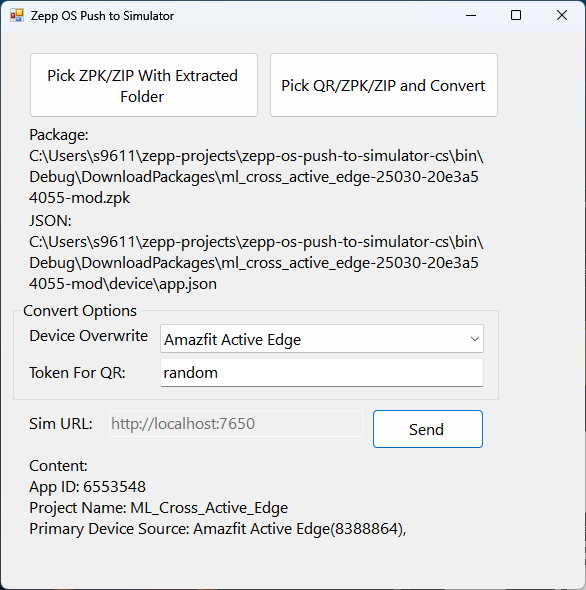
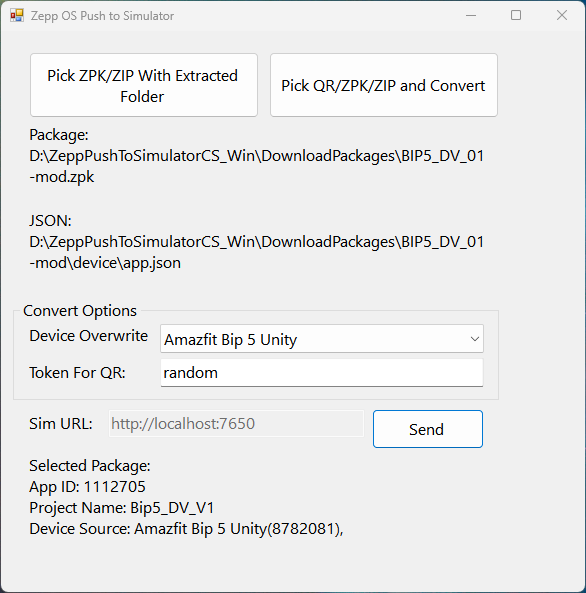
Device table fetch method improved

diff --git a/Form1.cs b/Form1.cs
@@ -10,10 +10,8 @@ using System.Linq;
 using System.Net.Http;
 using System.Text.Json;
 using System.Text.Json.Nodes;
-using System.Text.RegularExpressions;
 using System.Threading.Tasks;
 using System.Windows.Forms;
-using System.Xml.Linq;
 
 namespace zepp_os_push_to_simulator_cs
 {
@@ -67,31 +65,40 @@ namespace zepp_os_push_to_simulator_cs
         /// </summary>
         /// <param name="url">Download URL</param>
         /// <param name="destinationPath">Save path</param>
-        private async Task<string> DownloadFileAsync(string url, string destinationFolder)
+        /// <param name="fallbackFilename">Filename to use if can't determine from headers or URL</param>
+        /// <param name="withHeader">Whether to include headers in the request</param>
+        private async Task<string> DownloadFileAsync(string url, string destinationFolder, string fallbackFilename, bool withHeader)
         {
             string token = "";
 
-            // Read token from the UI, if it's "random" then generate a random token and update the UI with it
-            this.Invoke((MethodInvoker)delegate {
-                if (tokenTextBox.Text == "random")
+            if (withHeader)
+            {
+                // Read token from the UI, if it's "random" then generate a random token and update the UI with it
+                this.Invoke((MethodInvoker)delegate
                 {
-                    token = GenerateRandomToken(255);
-                    tokenTextBox.Text = token;
-                }
-                else
-                {
-                    token = tokenTextBox.Text.Trim();
-                }
-            });
+                    if (tokenTextBox.Text == "random")
+                    {
+                        token = GenerateRandomToken(255);
+                        tokenTextBox.Text = token;
+                    }
+                    else
+                    {
+                        token = tokenTextBox.Text.Trim();
+                    }
+                });
+            }
 
             try
             {
                 var request = new HttpRequestMessage(HttpMethod.Get, url);
-                request.Headers.Add("Accept-Encoding", "gzip");
-                request.Headers.Add("apptoken", token);
-                request.Headers.Add("Connection", "Keep-Alive");
-                request.Headers.TryAddWithoutValidation("User-Agent", "Dart/3.1 (dart:io)");
-                request.Headers.Accept.Clear();
+                if (withHeader)
+                {
+                    request.Headers.Add("Accept-Encoding", "gzip");
+                    request.Headers.Add("apptoken", token);
+                    request.Headers.Add("Connection", "Keep-Alive");
+                    request.Headers.TryAddWithoutValidation("User-Agent", "Dart/3.1 (dart:io)");
+                    request.Headers.Accept.Clear();
+                }
 
                 using (var response = await httpClient.SendAsync(request, HttpCompletionOption.ResponseHeadersRead))
                 {
@@ -120,7 +127,7 @@ namespace zepp_os_push_to_simulator_cs
                     // 3. Default filename if all else fails
                     if (string.IsNullOrEmpty(fileName))
                     {
-                        fileName = "downloaded_package.zpk";
+                        fileName = fallbackFilename;
                     }
 
                     string finalFullPath = Path.Combine(destinationFolder, fileName);
@@ -131,7 +138,7 @@ namespace zepp_os_push_to_simulator_cs
                         await stream.CopyToAsync(fileStream);
                     }
 
-                    Console.WriteLine($"File fully written to: {finalFullPath}");
+                    Console.WriteLine($"[DEBUG] File fully written to: {finalFullPath}");
                     return finalFullPath; // Return the full path of the downloaded file
                 }
             }
@@ -144,45 +151,36 @@ namespace zepp_os_push_to_simulator_cs
             }
         }
 
-        public static List<DeviceInfo> ParseDeviceTable(string htmlContent)
+        public static List<DeviceInfo> ParseDeviceTable(string jsonContent)
         {
-            var devices = new List<DeviceInfo>();
+            var rawList = JsonSerializer.Deserialize<List<JsonElement>>(jsonContent);
 
-            // 1. Let xml parser parse the HTML content, but first remove <code> tags to avoid parsing issues
-            string cleanHtml = Regex.Replace(htmlContent, @"<\/?code>", "");
+            // Use a dictionary to group device sources by product name
+            var deviceMap = new Dictionary<string, HashSet<int>>();
 
-            // 2. Use XDocument to parse (HTML format is loose, it's recommended to convert to XElement)
-            // Assume the input fragment is a table
-            XElement table = XElement.Parse($"<root>{cleanHtml}</root>");
-
-            var rows = table.Descendants("tr").Skip(1); // Skip the header row
-
-            foreach (var row in rows)
+            foreach (var item in rawList)
             {
-                var tds = row.Descendants("td").ToList();
-                if (tds.Count >= 4)
+                // 1. Get the productName and deviceSource from each item
+                if (item.TryGetProperty("productName", out var nameProp))
                 {
-                    string name = tds[0].Value.Trim();
-                    string rawSource = tds[3].Value.Trim();
-                    List<int> sources = new List<int>();
+                    string name = nameProp.GetString();
+                    int source = item.GetProperty("deviceSource").GetInt32();
 
-                    // 3. Get the device source number from the rawSource string, which may contain multiple sources separated by commas
-                    foreach (var source in rawSource.Split(','))
+                    // 2. If the productName is not already in the dictionary, add it with a new HashSet for sources
+                    if (!deviceMap.ContainsKey(name))
                     {
-                        string cleanedSource = Regex.Replace(source.Trim(), @"[^\d]", "");
-                        sources.Add(int.Parse(cleanedSource));
-                        
+                        deviceMap[name] = new HashSet<int>();
                     }
-
-                    devices.Add(new DeviceInfo
-                    {
-                        Name = name,
-                        Sources = sources
-                    });
+                    deviceMap[name].Add(source);
                 }
             }
 
-            return devices;
+            // 3. Convert the dictionary into a list of DeviceInfo objects
+            return deviceMap.Select(kvp => new DeviceInfo
+            {
+                Name = kvp.Key,
+                Sources = kvp.Value.ToList()
+            }).ToList();
         }
 
         public static string GetDeviceNameBySource(List<DeviceInfo> devices, int sourceToFind)
@@ -258,7 +256,7 @@ namespace zepp_os_push_to_simulator_cs
                 }
                 catch (Exception ex)
                 {
-                    Console.WriteLine($"Connect Error: {ex.Message}");
+                    Console.WriteLine($"[DEBUG] Connect Error: {ex.Message}");
                 }
             });
         }
@@ -352,7 +350,7 @@ namespace zepp_os_push_to_simulator_cs
                 devSourcesStr += ", ";
             }
             this.BeginInvoke((MethodInvoker)delegate {
-                content_Label.Text = $"Content: \nApp ID: {appId}\nProject Name: {projectName}\nPrimary Device Source: ";
+                content_Label.Text = $"Selected Package: \nApp ID: {appId}\nProject Name: {projectName}\nDevice Source: ";
                 content_Label.Text += devSourcesStr;
             });
         }
@@ -470,7 +468,7 @@ namespace zepp_os_push_to_simulator_cs
                         string downloadUrl = result.Text.Replace("zpkd1://", "https://");
 
                         content_Label.Text = "Status: Downloading...";
-                        string filepath = await DownloadFileAsync(downloadUrl, basePath);
+                        string filepath = await DownloadFileAsync(downloadUrl, basePath, "download_watchface.zpk", true);
                         if (filepath == null)
                         {
                             return; // Download failed, error message already shown in DownloadFileAsync
@@ -520,7 +518,7 @@ namespace zepp_os_push_to_simulator_cs
                 string appJsonPath = Path.Combine(deviceContentDir, "app.json");
 
                 Process.Start("explorer.exe", $@"{tempDir}\device\assets");
-                MessageBox.Show("Please convert all of the image backs to the normal png (under \"program_folder\\DownloadPackages\\temp\" !\n\n" +
+                MessageBox.Show("Please convert all of the image backs to the normal png (under \"program_folder\\DownloadPackages\\temp\\device\\assets\"!\n\n" +
                     "Comfirm this dialog to continue the upload process!", "Message", MessageBoxButtons.OK, MessageBoxIcon.Information);
 
                 
@@ -618,20 +616,27 @@ namespace zepp_os_push_to_simulator_cs
             convert_zpk(openFileDialog1.FileName);
         }
 
-        private void MainWindow_Load(object sender, EventArgs e)
+        private async void MainWindow_Load(object sender, EventArgs e)
         {
-            // Load the devtable.html file from the application directory
-            string filePath = Path.Combine(AppDomain.CurrentDomain.BaseDirectory, "devtable.html");
+            string filePath = await DownloadFileAsync("https://upload-cdn.zepp.com/zeppos/devkit/zeus/v1/devices.json", 
+                AppDomain.CurrentDomain.BaseDirectory, "devices.json", false);
 
+            if(string.IsNullOrEmpty(filePath))
+            {
+                MessageBox.Show($"Failed to download devices.json!\n" +
+                    $"Will use the downloaded version.", "Message", MessageBoxButtons.OK, MessageBoxIcon.Warning);
+                // Load the devtable.html file from the application directory
+                filePath = Path.Combine(AppDomain.CurrentDomain.BaseDirectory, "devices.json");
+            }
             // 2. Check if the file exists
             if (File.Exists(filePath))
             {
                 try
                 {
-                    // 3. Read the HTML content from the file
-                    string htmlContent = File.ReadAllText(filePath);
-                    // 4. Call the ParseDeviceTable method to parse the HTML content and get the list of devices
-                    deviceInfo = ParseDeviceTable(htmlContent);
+                    // 3. Read the JSON content from the file
+                    string jsonContent = File.ReadAllText(filePath);
+                    // 4. Call the ParseDeviceTable method to parse the JSON content and get the list of devices
+                    deviceInfo = ParseDeviceTable(jsonContent);
                     foreach (var device in deviceInfo)
                     {
                         devlistCombo.Items.Add(device.Name);
@@ -646,7 +651,7 @@ namespace zepp_os_push_to_simulator_cs
             }
             else
             {
-                MessageBox.Show($"devtable.html not found!", "Error", MessageBoxButtons.OK, MessageBoxIcon.Error);
+                MessageBox.Show($"devices.json not found!", "Error", MessageBoxButtons.OK, MessageBoxIcon.Error);
                 Application.Exit();
             }
         }

diff --git a/Form1.Designer.cs b/Form1.Designer.cs
@@ -83,9 +83,9 @@
             this.content_Label.Location = new System.Drawing.Point(24, 423);
             this.content_Label.MaximumSize = new System.Drawing.Size(466, 0);
             this.content_Label.Name = "content_Label";
-            this.content_Label.Size = new System.Drawing.Size(72, 21);
+            this.content_Label.Size = new System.Drawing.Size(135, 21);
             this.content_Label.TabIndex = 3;
-            this.content_Label.Text = "Content: ";
+            this.content_Label.Text = "Selected Package: ";
             // 
             // json_loc_Label
             // 

diff --git a/README.md b/README.md
@@ -3,9 +3,11 @@ The port of [Bob-YsPan/zepp-os-push-to-simulator](https://github.com/Bob-YsPan/z
 
 This program uses the same principles and usage methods as the original repository, now is the main tool to help people to convert/upload its zepp package into the simulator!
 
-<img src="cap1.png" width=50%>
+<img src="ani1.gif" width=100%>
 
 <img src="cap2.png" width=75%>
+
+<img src="cap1.png" width=50%>
 
 ## Instructions
 
@@ -20,6 +22,7 @@ This program uses the same principles and usage methods as the original reposito
 4. The program will do the zpk file extraction. When it is finished, it will pop up a Message box about the image conversion, and open the explorer of the temp assets' directory. You can convert images using these options:
     * If this package is downloaded from the internet, you can use tools to convert all images back to the correct png using the `ImageToZeppOS` tool made by [SashaCX75](https://amazfitwatchfaces.com/forum/memberlist.php?mode=viewprofile&u=113690) ( [Dropbox](https://www.dropbox.com/s/ugmfqg0xdv8qbcd/ImageToZeppOS.zip?dl=0) ) 
     * If you are testing the project you developed, just replace all PNGs with the project folder's PNG files.
+    * All image assets that need to be converted are under the `program_folder\DownloadPackages\temp\device\assets`. The program will open it by explorer automatically.
 5. After confirming the message box, the conversion will continue. After conversion is done, you can click the `Connect` and then `Upload` buttom to upload the package into the simulator. 
 
 ### Pick Converted file
@@ -35,7 +38,7 @@ This program uses the same principles and usage methods as the original reposito
     1. **You can just extract zpk and then extract inner device.zip to get this structure!**
     2. **`device.zip` needs to use normal PNGs, not the encoded format that is used on an actual watch!**
     2. **`app.json` needs to include the device source that matches your simulator!**
-    3. **The modded package and extracted folder that are converted by this tool will be in the `DownloadPackages` folder under the program's folder, and include the `-mod` suffix at the end.**
+    3. **The converted package and extracted folder that are converted by this tool will be in the `DownloadPackages` folder under the program's folder, and include the `-mod` suffix at the end.**
 2. Use the `Pick ZPK/ZIP With Extracted Folder` tool, pick the zpk file (like `your_package.zpk` on step 1) .
 3. Check the `Content` area, make sure the package you selected is correct.
 4. Click the `Connect` and then `Upload` buttom to upload the package into the simulator. 
